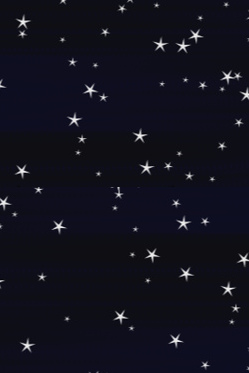
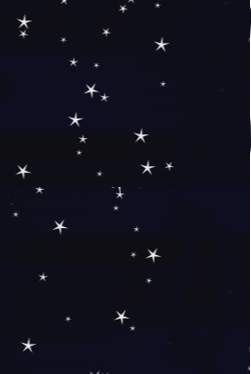
fixed background image, and the scaling

diff --git a/src/main/webapp/js/clock12.js b/src/main/webapp/js/clock12.js
@@ -112,7 +112,7 @@ function clock12(container, data){
                 .attr("height", height)
                 .attr("width", width / 2)
                 .attr("xlink:href", "/fig/nightsky1.png")
-                .attr("preserveAspectRatio", "xMaxYMax slice");
+                .attr("preserveAspectRatio", "xMinYMax slice");
 
             herp.append("image")
                 .attr("x", function (d) { 
@@ -128,7 +128,7 @@ function clock12(container, data){
                 .attr("height", height)
                 .attr("width", width / 2)
                 .attr("xlink:href", "/fig/sunnysky.png")
-                .attr("preserveAspectRatio", "xMaxYMax slice");
+                .attr("preserveAspectRatio", "xMinYMax slice");
 
              var svg = herp.append("g")
                 .attr("transform", "translate(" + width / 2 + "," + height / 2 + ")");

diff --git a/src/main/webapp/js/detailedWeek.js b/src/main/webapp/js/detailedWeek.js
@@ -128,9 +128,9 @@
 
         tooltip.transition()
                .duration(200)
-               .style("opacity", 1)
                .style("left", (d3.event.pageX) + "px")
-               .style("top", (d3.event.pageY - 28) + "px");
+               .style("top", (d3.event.pageY - 28) + "px")
+               .style("opacity", 1);
     }
 
     function removeTooltip() {
